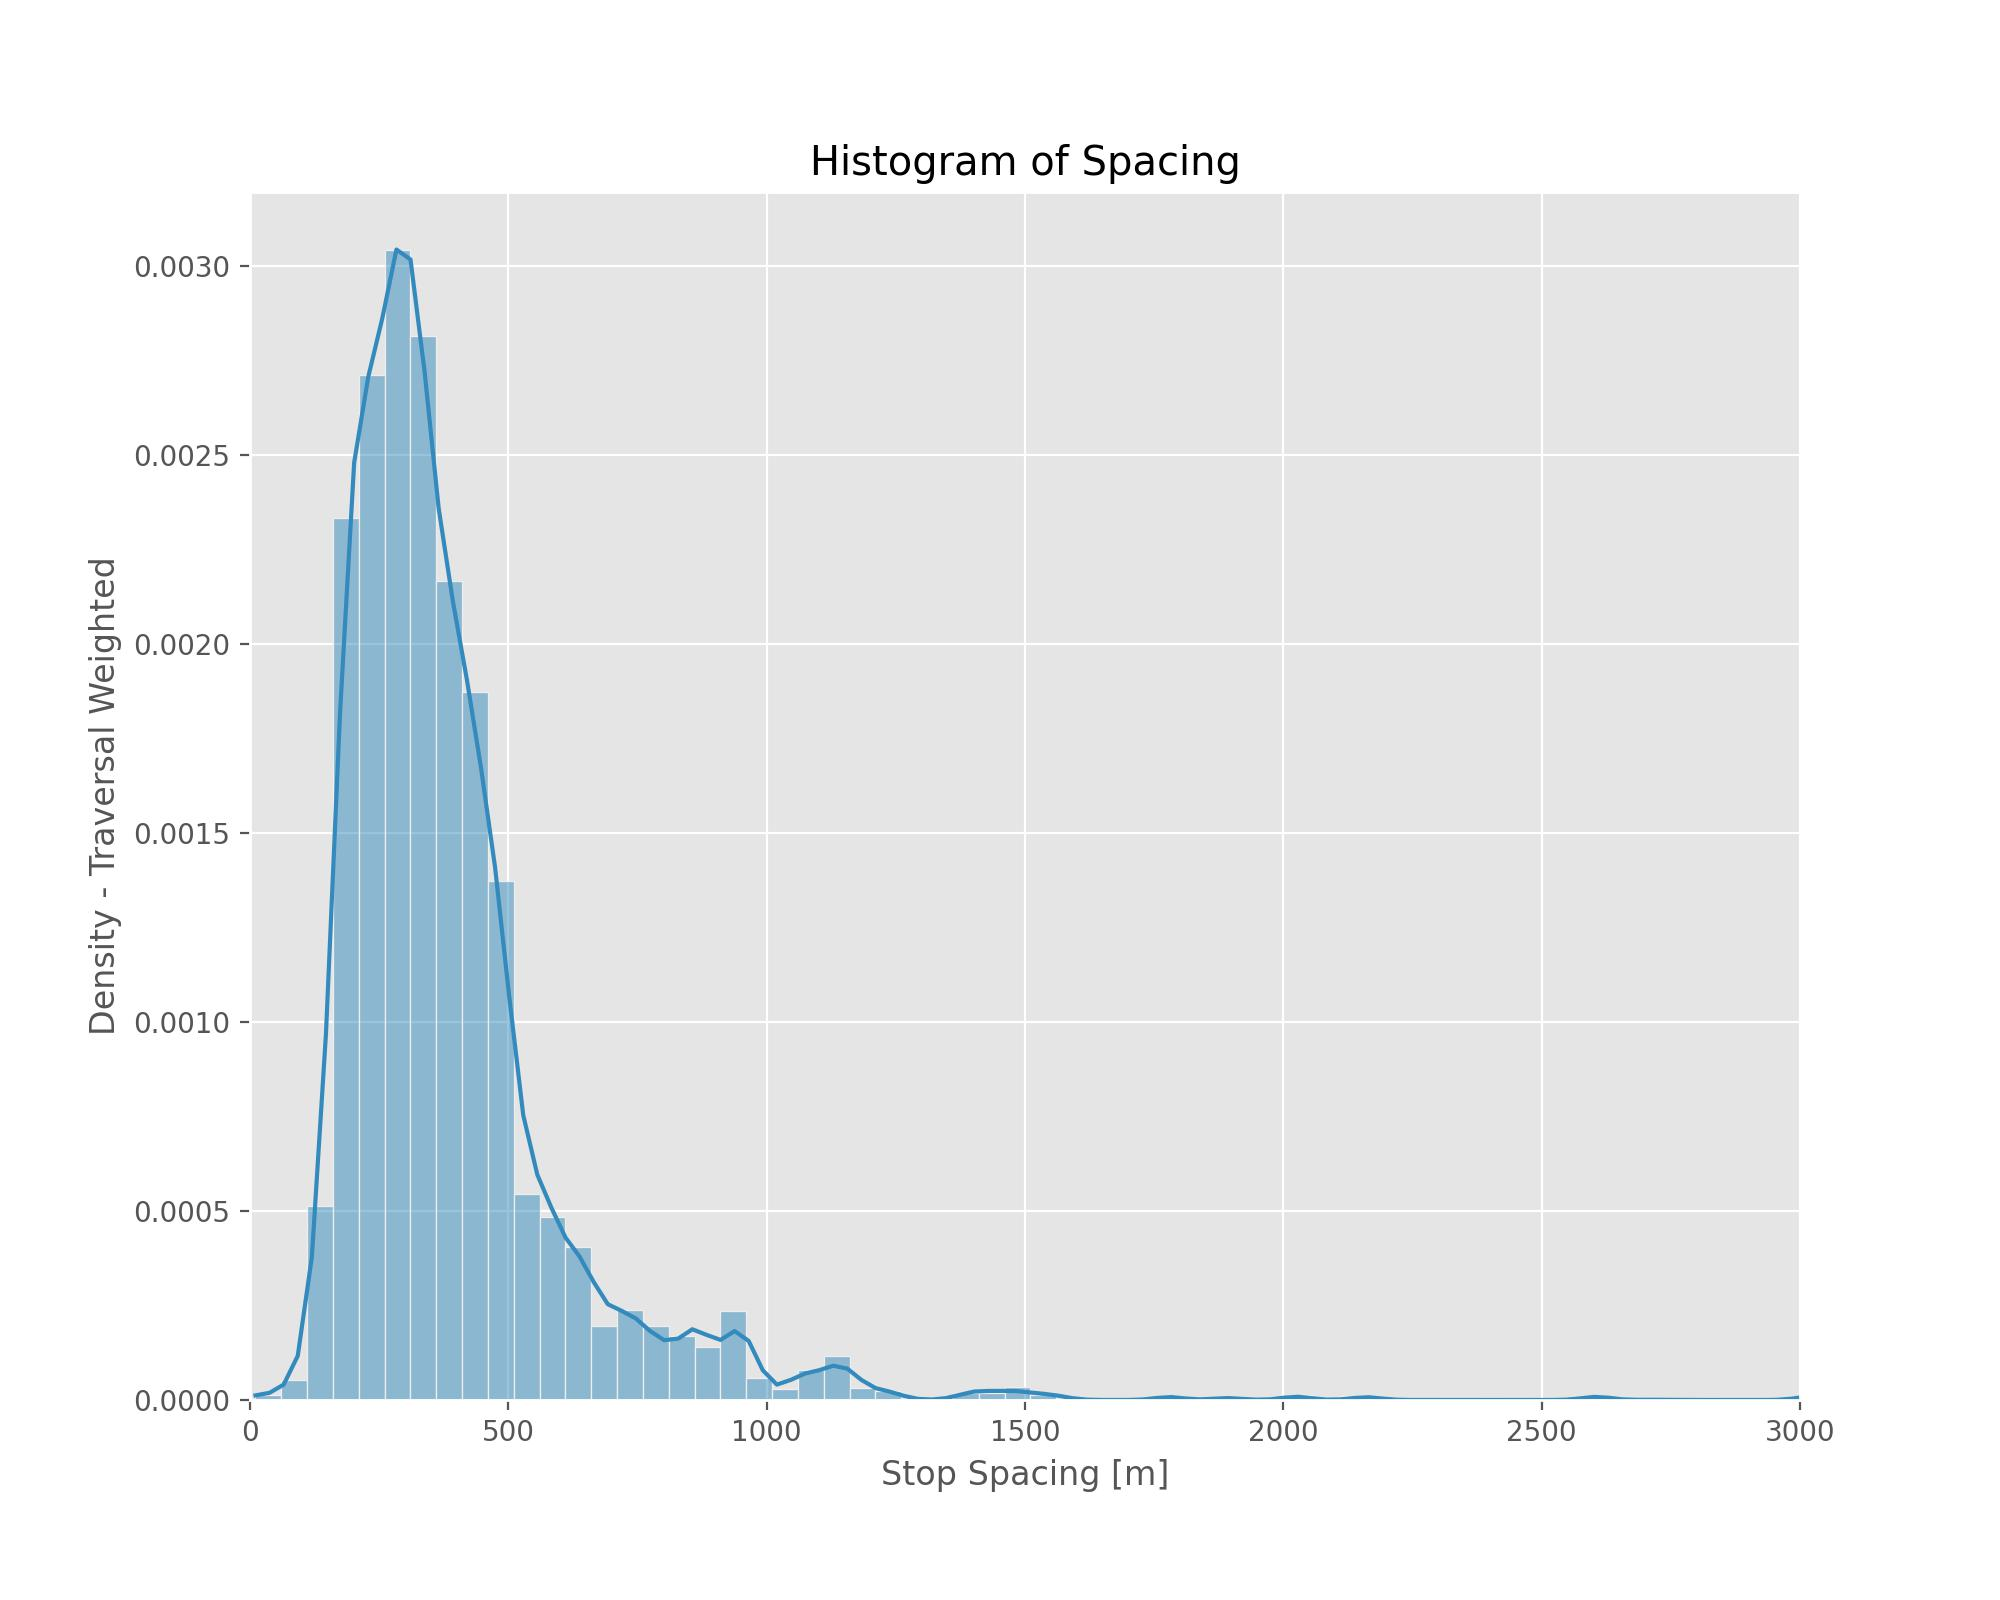
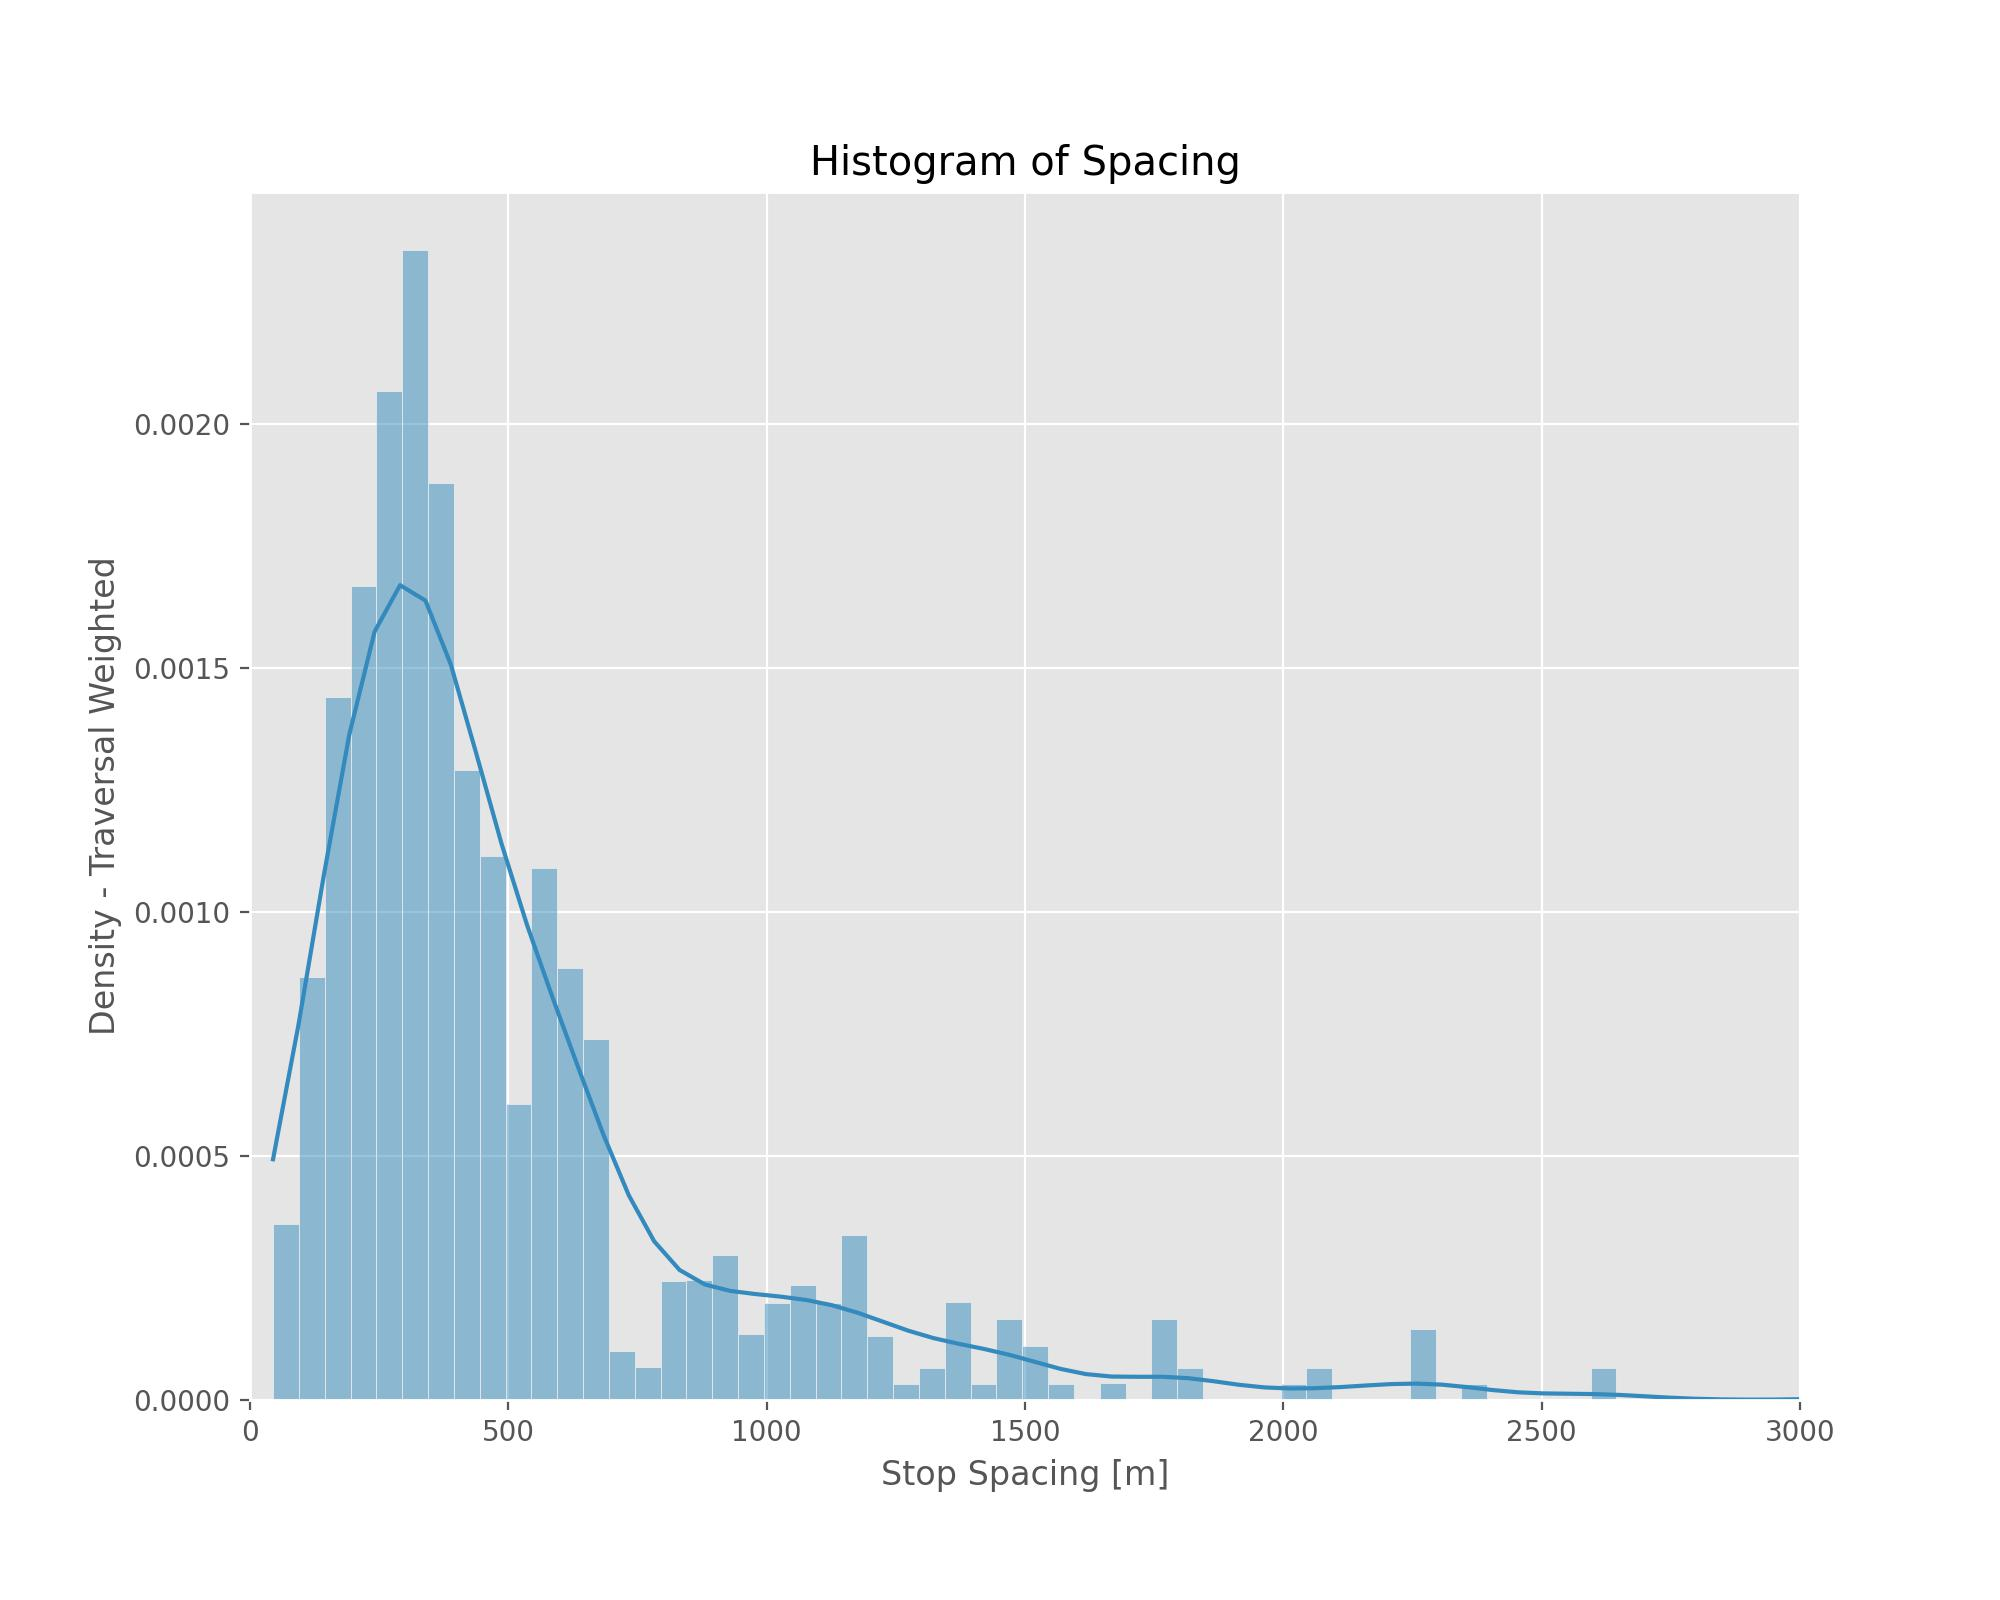
changed mobilit file_names; hist plots, summary

diff --git a/gtfs_segments/mobility.py b/gtfs_segments/mobility.py
@@ -15,15 +15,22 @@ def read_moblity_sources(abb_path,mob_path):
     abb_df = pd.read_csv(abb_path)
     sources_df = pd.read_csv(mob_path)
     sources_df = sources_df[sources_df['location.country_code'] == 'US']
+    sources_df = sources_df[sources_df['data_type'] == 'gtfs']
     sources_df = pd.merge(sources_df,abb_df,how='left',left_on='location.subdivision_name',right_on='State')
     sources_df = sources_df[~sources_df.Code.isna()]
     sources_df['location.municipality'] = sources_df['location.municipality'].astype("str")
     file_names = []
     for i,row in sources_df.iterrows():
         if row['location.municipality'] != 'nan':
-            file_names.append(str(row['location.municipality'])+'-'+str(row['provider'])+'-'+str(row['Code']))
-        else :
-            file_names.append(str(row['location.subdivision_name'])+'-'+str(row['provider'])+'-'+str(row['Code']))
+            if len(sources_df[(sources_df['location.municipality'] == row['location.municipality']) & (sources_df['provider'] == row['provider'])]) <= 1:
+                file_names.append(str(row['location.municipality'])+'-'+str(row['provider'])+'-'+str(row['Code']))
+            else:
+                file_names.append(str(row['location.municipality'])+'-'+str(row['provider'])+'-'+str(row['name'])+'-'+str(row['Code']))
+        else:
+            if len(sources_df[(sources_df['location.subdivision_name'] == row['location.subdivision_name']) & (sources_df['provider'] == row['provider'])]) <= 1:
+                file_names.append(str(row['location.subdivision_name'])+'-'+str(row['provider'])+'-'+str(row['Code']))
+            else:
+                file_names.append(str(row['location.subdivision_name'])+'-'+str(row['provider'])+'-'+str(row['name'])+'-'+str(row['Code']))
     sources_df['file_name'] = file_names
     return sources_df
 
@@ -43,6 +50,8 @@ def summary_stats_mobility(df,folder_path,filename,b_day,link,bounds,max_spacing
     quant = weighted_stats.quantile([0.25,0.5,0.75],return_pandas=False)
     percent_spacing = round(df[df["distance"] > max_spacing]['traversals'].sum()/df['traversals'].sum() *100,3)
     csv_path = os.path.join(folder_path,'summary.csv')
+    stop_weighted_mean = df.groupby(['segment_id','distance']).first().reset_index()["distance"].mean()
+    route_weighted_mean = df.groupby(['route_id','segment_id','distance']).first().reset_index()["distance"].mean()
     
     df_dict = {"Name":filename,
             'Busiest Day': b_day,
@@ -51,11 +60,13 @@ def summary_stats_mobility(df,folder_path,filename,b_day,link,bounds,max_spacing
             'Min Longitude': bounds[0][0],
             'Max Latitude': bounds[1][1],
             'Max Longitude': bounds[1][0],
-            'Mean': round(weighted_stats.mean,3),
-            'Std': round(weighted_stats.std,3),
-            '25 % Quantile': round(quant[0],3),
-            '50 % Quantile': round(quant[1],3),
-            '75 % Quantile': round(quant[2],3),
+            'Stop Weighted Mean' : stop_weighted_mean,
+            'Route Weighted Mean' : route_weighted_mean,
+            'Traversal Weighted Mean': round(weighted_stats.mean,3),
+            'Traversal Weighted Std': round(weighted_stats.std,3),
+            'Traversal Weighted 25 % Quantile': round(quant[0],3),
+            'Traversal Weighted 50 % Quantile': round(quant[1],3),
+            'Traversal Weighted 75 % Quantile': round(quant[2],3),
             'No of Segments':len(df),
             'No of Routes':len(df.route_id.unique()),
             'No of Traversals':sum(df.traversals),  

diff --git a/gtfs_segments/utils.py b/gtfs_segments/utils.py
@@ -34,6 +34,7 @@ def plot_hist(df,save_fig = False,**kwargs):
         ax = kwargs['ax']
     else:
         fig, ax = plt.subplots(figsize=(10,8))
+    df = df[df['distance'] < max_spacing]
     data = np.hstack([np.repeat(x, y) for x, y in zip(df['distance'], df.traversals)])
     sns.histplot(data,binwidth=50,stat = "density",kde=True,ax=ax)
     plt.xlim([0,max_spacing])
@@ -44,7 +45,7 @@ def plot_hist(df,save_fig = False,**kwargs):
         plt.title(kwargs['title'])
     if save_fig == True:
         assert "file_path" in kwargs.keys(), "Please pass in the `file_path`"
-        plt.savefig(kwargs['file_path'], dpi=200)
+        plt.savefig(kwargs['file_path'], dpi=300)
     plt.show()
     plt.close(fig)
     return ax
@@ -63,15 +64,22 @@ def summary_stats(df,export = False,**kwargs):
         print("Using max_spacing = 3000")
     else:
         max_spacing = kwargs['max_spacing']
+    percent_spacing = round(df[df["distance"] > max_spacing]['traversals'].sum()/df['traversals'].sum() *100,3)
+    df = df[df["distance"] > max_spacing]
     weighted_stats = DescrStatsW(df["distance"], weights=df.traversals, ddof=0)
     quant = weighted_stats.quantile([0.25,0.5,0.75],return_pandas=False)
-    percent_spacing = round(df[df["distance"] > max_spacing]['traversals'].sum()/df['traversals'].sum() *100,3)
+    stop_weighted_mean = df.groupby(['segment_id','distance']).first().reset_index()["distance"].mean()
+    route_weighted_mean = df.groupby(['route_id','segment_id','distance']).first().reset_index()["distance"].mean()
+    # passenger_weighted_mean = (df["distance"] * df.traversal_load).sum() / df.traversal_load.sum()
+    
     df_dict = {
-            'Mean': round(weighted_stats.mean,3),
-            'Std': round(weighted_stats.std,3),
-            '25 % Quantile': round(quant[0],3),
-            '50 % Quantile': round(quant[1],3),
-            '75 % Quantile': round(quant[2],3),
+            'Stop Weighted Mean' : stop_weighted_mean,
+            'Route Weighted Mean' : route_weighted_mean,
+            'Traversal Weighted Mean': round(weighted_stats.mean,3),
+            'Traversal Weighted Std': round(weighted_stats.std,3),
+            'Traversal Weighted 25 % Quantile': round(quant[0],3),
+            'Traversal Weighted 50 % Quantile': round(quant[1],3),
+            'Traversal Weighted 75 % Quantile': round(quant[2],3),
             'No of Segments':int(len(df)),
             'No of Routes':int(len(df.route_id.unique())),
             'No of Traversals':int(sum(df.traversals)),  

diff --git a/gtfs_segments/__init__.py b/gtfs_segments/__init__.py
@@ -12,7 +12,8 @@ from .utils import (
 )
 
 from .mobility import(
-    read_moblity_sources
+    read_moblity_sources,
+    summary_stats_mobility
 )
 
 __all__ = [
@@ -23,5 +24,8 @@ __all__ = [
     "export_segments",
     "plot_hist",
     "read_moblity_sources",
-    "summary_stats"
+    "summary_stats",
+    "process",
+    "process",
+    "summary_stats_mobility"
 ]
